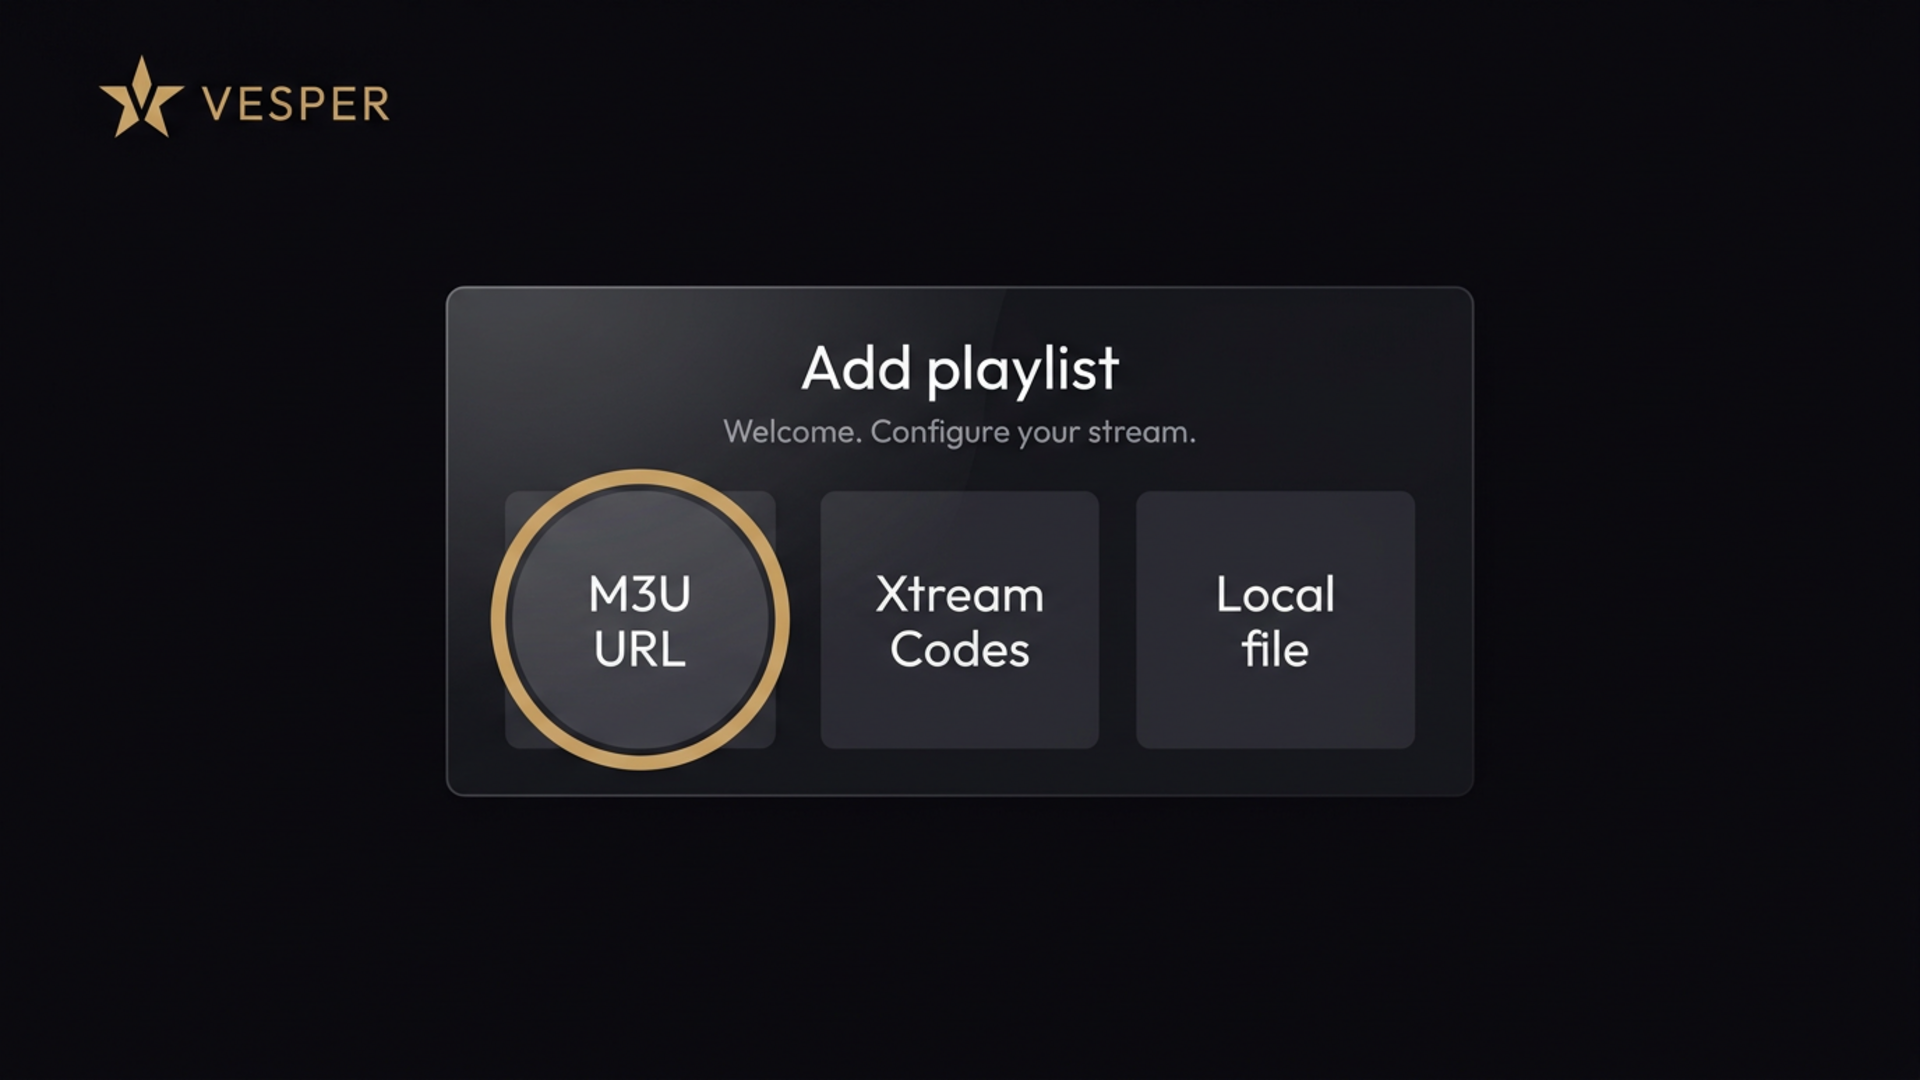
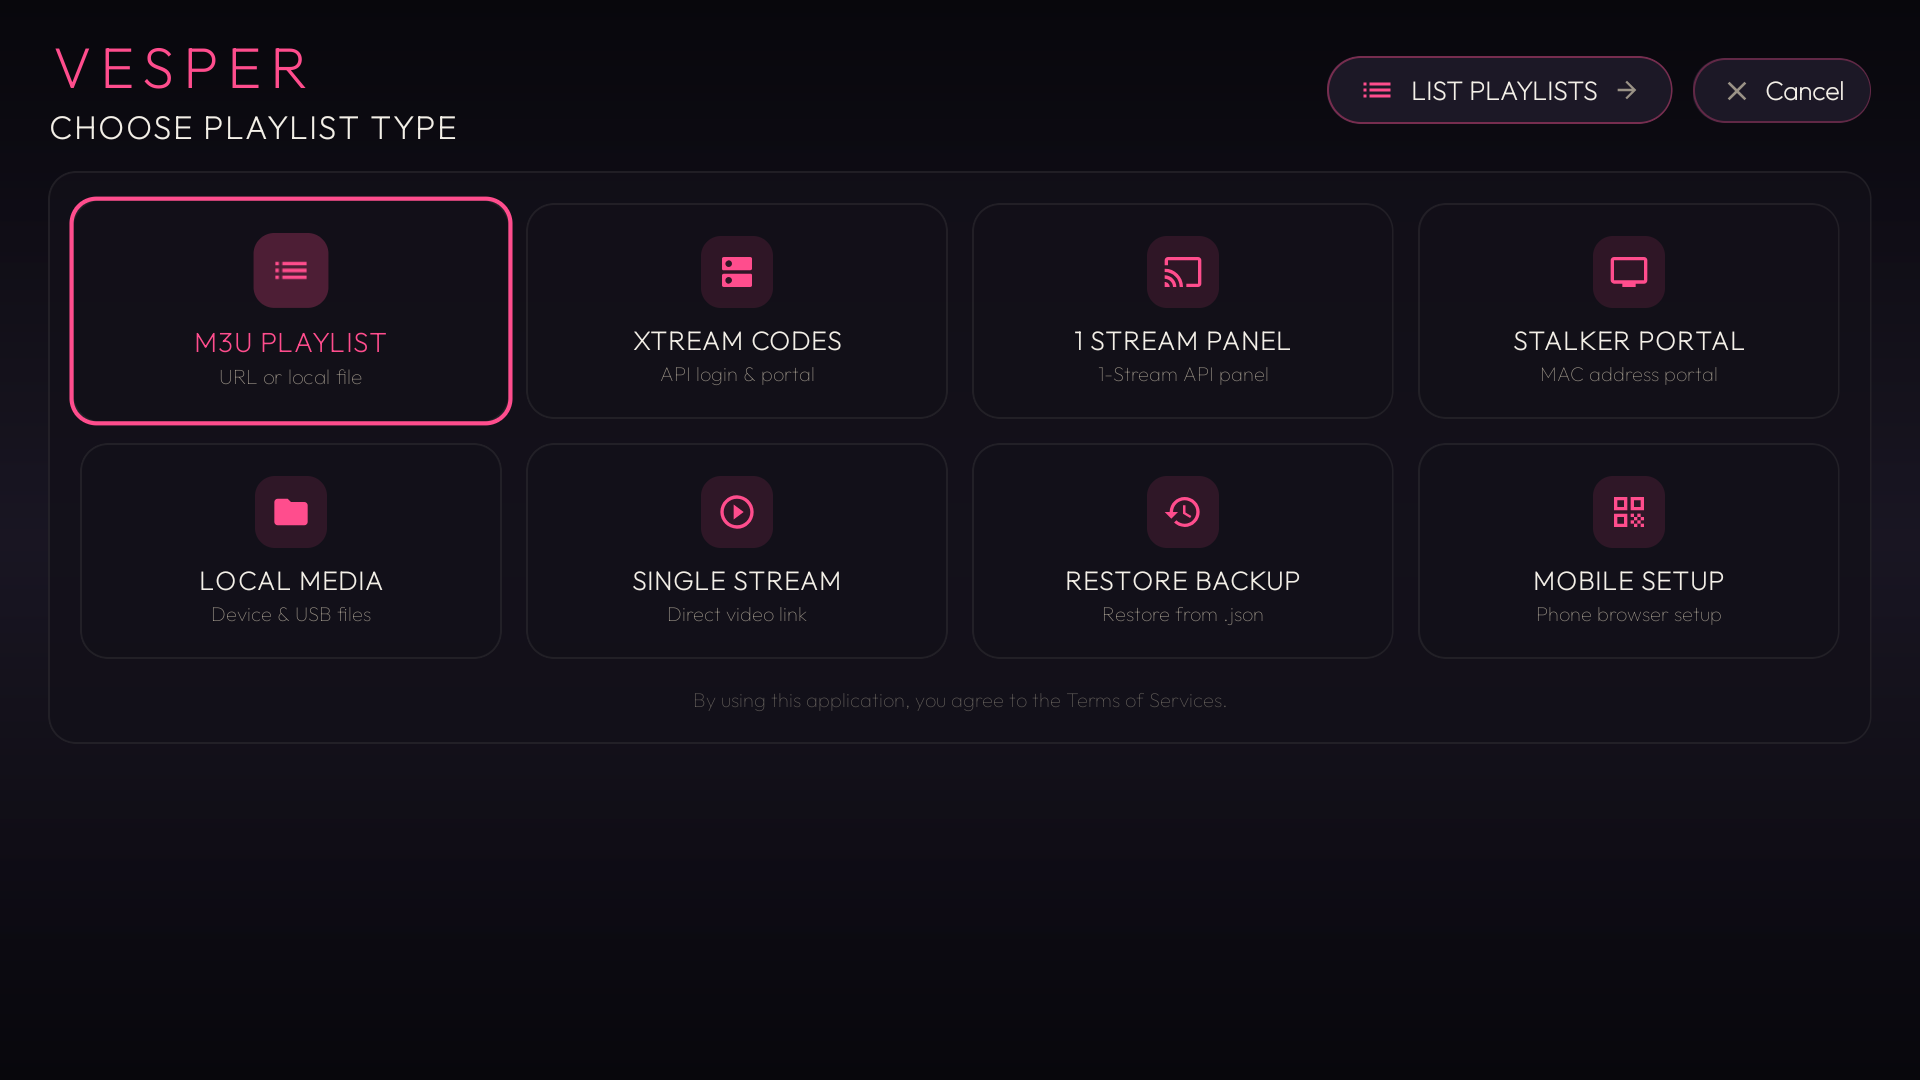
feat: update website screenshots with live blurred TV & movie captures

diff --git a/index.html b/index.html
@@ -67,7 +67,7 @@
       </div>
       <div class="hero-visual">
         <div class="badge-live">Designed for Android TV</div>
-        <img src="./screenshots/screenshot_03_settings.png" width="1920" height="1080" alt="Vesper appearance settings on Android TV" fetchpriority="high"/>
+        <img src="./screenshots/screenshot_05_settings.png" width="1920" height="1080" alt="Vesper appearance settings on Android TV" fetchpriority="high"/>
       </div>
     </div>
   </section>
@@ -104,10 +104,12 @@
       <h2>Readable from across the room.</h2>
       <p class="sub">Large focus targets, clear hierarchy, and deliberate remote navigation.</p>
       <div class="screens">
-        <figure class="screen"><img src="./screenshots/screenshot_01_add_playlist.png" width="1920" height="1080" alt="Vesper Add Playlist screen" loading="lazy" decoding="async"/><figcaption class="cap"><b>Add a source</b><span>M3U • Local file • Xtream</span></figcaption></figure>
-        <figure class="screen"><img src="./screenshots/screenshot_02_empty_home.png" width="1920" height="1080" alt="Vesper three-pane Home screen" loading="lazy" decoding="async"/><figcaption class="cap"><b>Three-pane Home</b><span>Media • Groups • Content</span></figcaption></figure>
-        <figure class="screen"><img src="./screenshots/screenshot_03_settings.png" width="1920" height="1080" alt="Vesper appearance settings screen" loading="lazy" decoding="async"/><figcaption class="cap"><b>Appearance</b><span>TV-friendly themes</span></figcaption></figure>
-        <figure class="screen"><img src="./screenshots/screenshot_04_player.png" width="1920" height="1080" alt="Vesper live player controls" loading="lazy" decoding="async"/><figcaption class="cap"><b>Player</b><span>Tracks • Subtitles • Display modes</span></figcaption></figure>
+        <figure class="screen"><img src="./screenshots/screenshot_01_add_playlist.png" width="1920" height="1080" alt="Vesper Add Playlist screen" loading="lazy" decoding="async"/><figcaption class="cap"><b>Add a source</b><span>M3U • Xtream • Stalker</span></figcaption></figure>
+        <figure class="screen"><img src="./screenshots/screenshot_02_mobile_setup.png" width="1920" height="1080" alt="Vesper Mobile Setup screen" loading="lazy" decoding="async"/><figcaption class="cap"><b>Mobile setup</b><span>QR code • Phone browser</span></figcaption></figure>
+        <figure class="screen"><img src="./screenshots/screenshot_03_live_tv.png" width="1920" height="1080" alt="Vesper three-pane Live TV screen" loading="lazy" decoding="async"/><figcaption class="cap"><b>Three-pane Live TV</b><span>Media • Groups • Channels</span></figcaption></figure>
+        <figure class="screen"><img src="./screenshots/screenshot_04_movies.png" width="1920" height="1080" alt="Vesper Movies and Series screen" loading="lazy" decoding="async"/><figcaption class="cap"><b>Movies &amp; Series</b><span>Posters • Ratings • Search</span></figcaption></figure>
+        <figure class="screen"><img src="./screenshots/screenshot_05_settings.png" width="1920" height="1080" alt="Vesper appearance settings screen" loading="lazy" decoding="async"/><figcaption class="cap"><b>Appearance</b><span>TV-friendly themes</span></figcaption></figure>
+        <figure class="screen"><img src="./screenshots/screenshot_06_player.png" width="1920" height="1080" alt="Vesper live player controls" loading="lazy" decoding="async"/><figcaption class="cap"><b>Player</b><span>Tracks • Subtitles • Display modes</span></figcaption></figure>
       </div>
     </div>
   </section>
